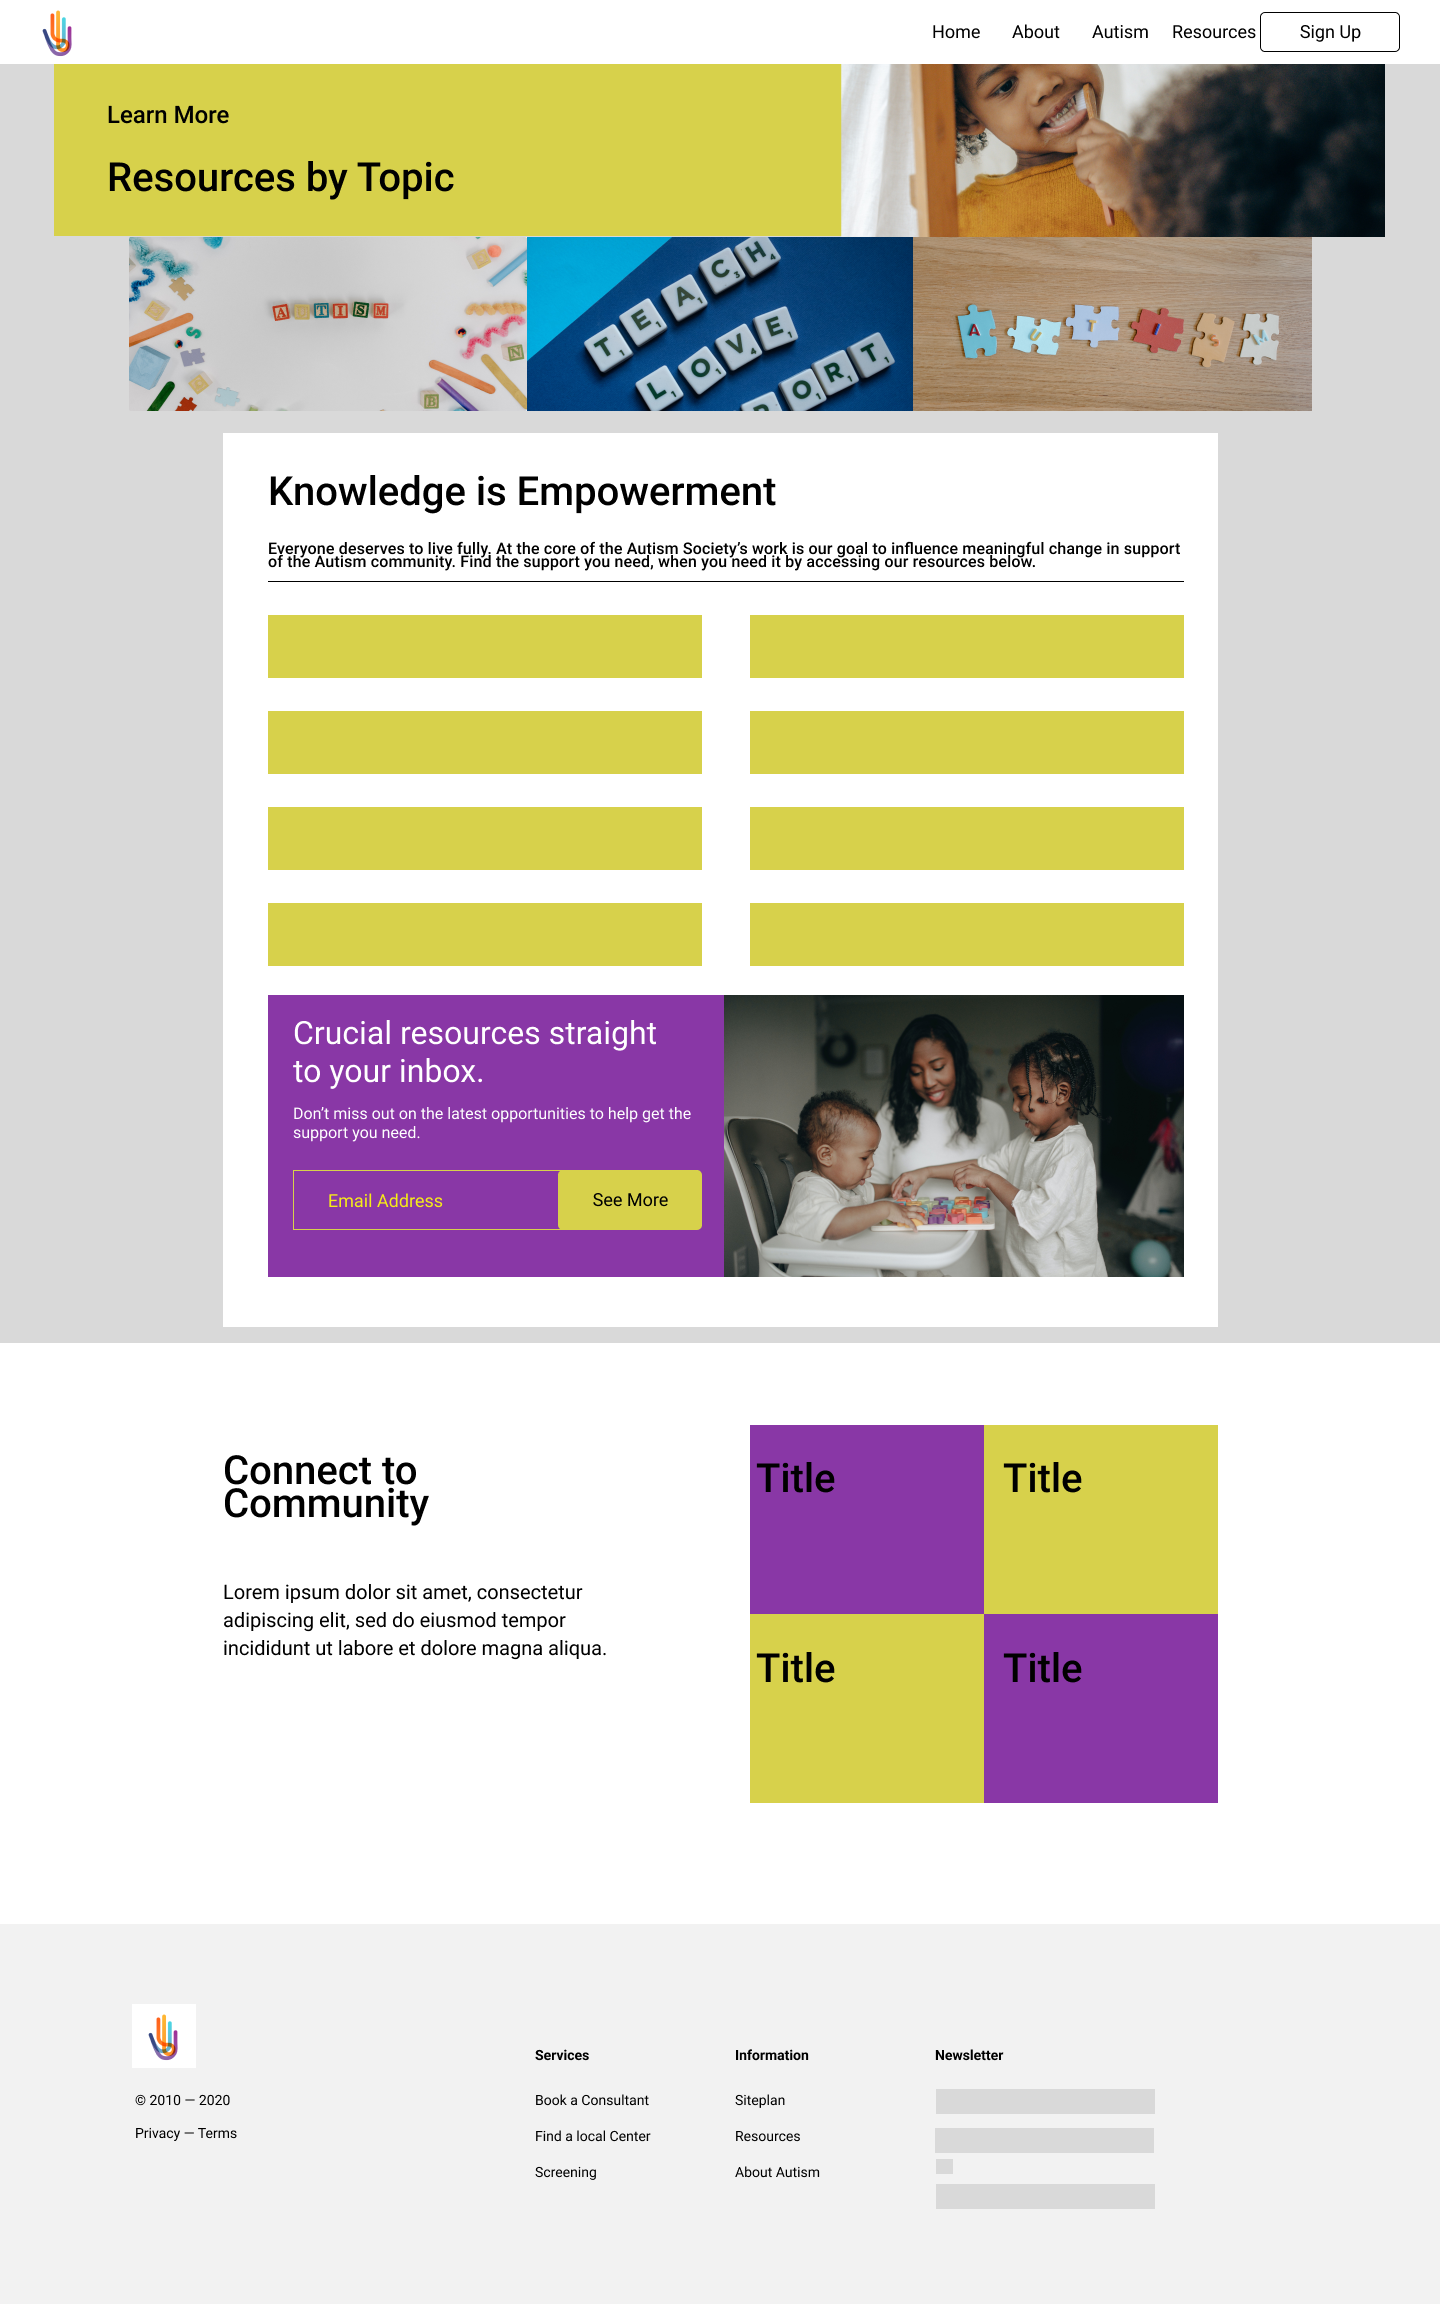
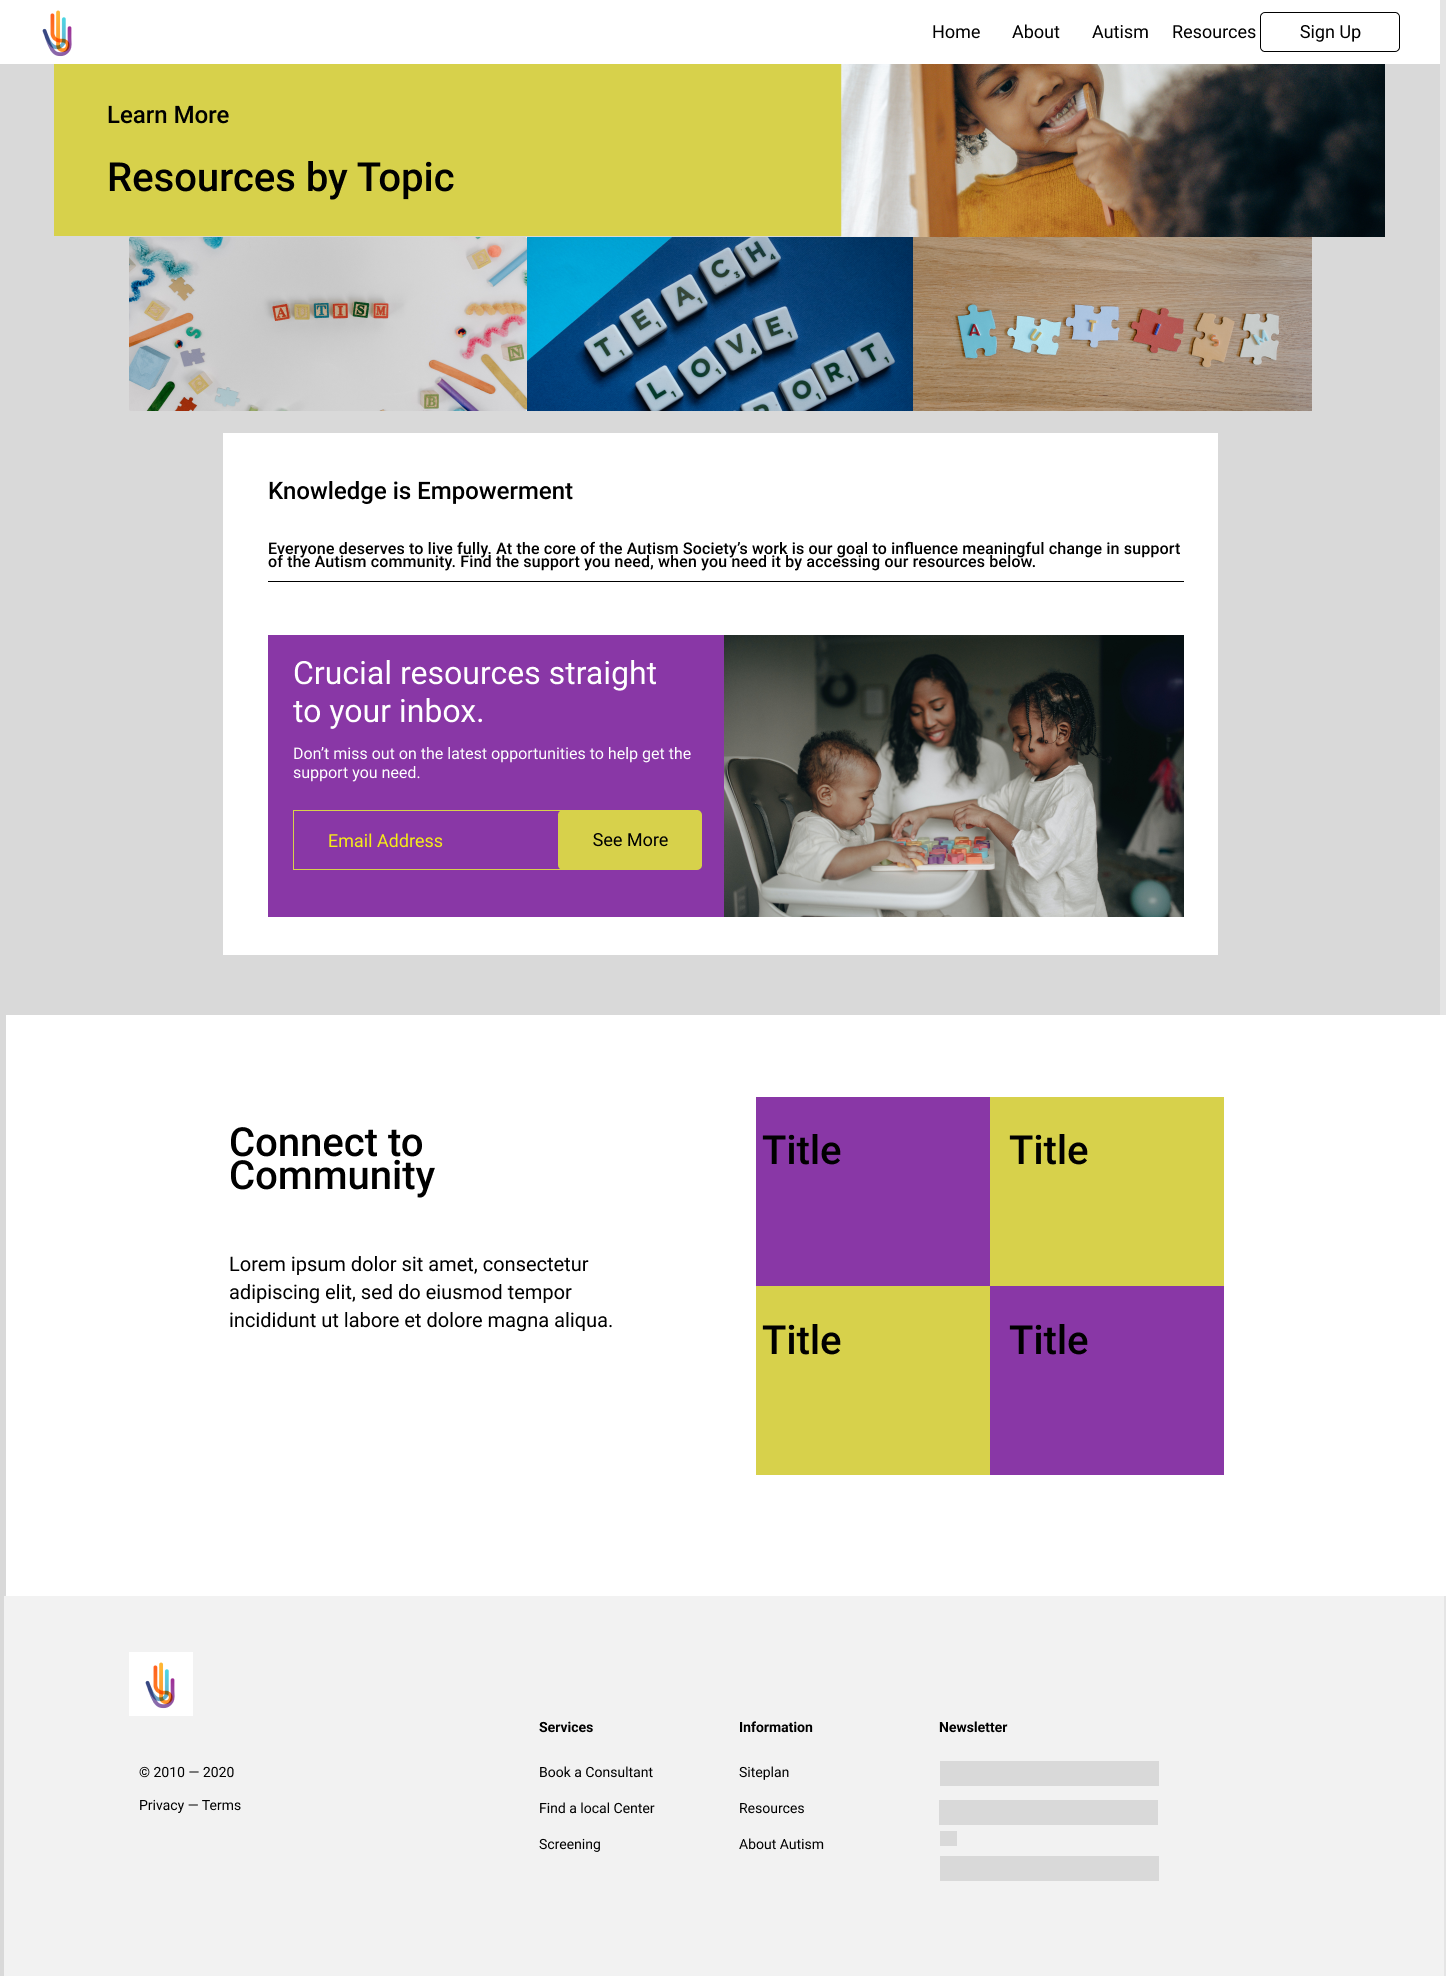
css and resource pages

diff --git a/personalsite/resources.html b/personalsite/resources.html
@@ -31,23 +31,23 @@
                     <h1>Resources by Topics</h1>
                 </div>
             </section>
-            <section class="resourceImages">
+            <div class="resourceImages">
                 <div><img src="./images/pexels-polina-kovaleva-8709218.jpg" alt=""></div>
                 <div><img src="./images/pexels-tara-winstead-8385963.jpg" alt=""></div>
                 <div><img src="./images/pexels-tara-winstead-8386136.jpg" alt=""></div>
-            </section>
+            </div>
             <main class="resourcePage">
-                <h2></h2>
-                <p></p>
+                <h3>Knowledge is Empowerment</h3>
+                <p>Everyone deserves to live fully. At the core of the Autism Society’s work is our goal to 
+                    influence meaningful change in support of the Autism community. Find the support you need, 
+                    when you need it by accessing our resources below.</p>
                 <div class="resourcetoInbox">
                     <div class="retoInboxText">
-                        <h3>Knowledge is Empowerment</h3>
-                        <p>Everyone deserves to live fully. At the core of the Autism Society’s work is our goal to 
-                            influence meaningful change in support of the Autism community. Find the support you need, 
-                            when you need it by accessing our resources below.</p>
-                        <form action="" method="" id="retoInbox">
+                        <h3>Crucial resources straight to your inbox.</h3>
+                        <p>Don’t miss out on the latest opportunities to help get the support you need.</p>
+                        <form id="retoInbox">
                             <div>
-                                <input type="text" name="Email" id="email" pattern="[a-z0-9._%+-]+@[a-z0-9.-]+\.[a-z]{2,}$" 
+                                <input type="text" name="Email" id="EmailSignup" pattern="[a-z0-9._%+-]+@[a-z0-9.-]+\.[a-z]{2,}$" 
                                 placeholder="Email Address" required>
                             </div>
                             <div>
@@ -56,7 +56,7 @@
                         </form>
                     </div>
                     <div>
-                        <img src="./images/pexels-pnw-production-7328448.jpg" alt="">
+                        <img src="./images/pexels-pnw-production-7328448.jpg" alt="lady with children">
                     </div>
                 </div>
             </main>
@@ -118,18 +118,18 @@
                 </div>
                 <div>
                     <h5>Subscribe to our Newsletter</h5>
-                    <form action="" method="">
+                    <form>
                         <div>
                             <label for="Name">Name</label>
-                            <input type="text" name="Name" id="name" required>
+                            <input type="text" name="Name" id="Name" required>
                         </div>
                         <div>
                             <label for="Email">Email</label>
-                            <input type="text" name="Email" id="email" pattern="[a-z0-9._%+-]+@[a-z0-9.-]+\.[a-z]{2,}$" required>
+                            <input type="text" name="Email" id="Email" pattern="[a-z0-9._%+-]+@[a-z0-9.-]+\.[a-z]{2,}$" required>
                         </div>
                         <div>
                             <label for="Accept">
-                            <input type="checkbox" name="Accept" id="acceptCheckbox" checked="checked" value="1">
+                            <input type="checkbox" name="Accept" id="Accept" checked="checked" value="1">
                             I want to receive communications</label>
                         </div>
                         <div>

diff --git a/personalsite/home.html b/personalsite/home.html
@@ -47,7 +47,7 @@
         <div class="mySlides fade">
             <a href="aboutautism.html">
                 <div class="numbertext">1 / 2</div>
-                <img src="images/pexels-polina-kovaleva-8709147.jpg" style="width:100%">
+                <img src="images/pexels-polina-kovaleva-8709147.jpg" style="width:100%" alt="slide1">
                 <div class="text">About Autism</div>
             </a>
         </div>
@@ -55,7 +55,7 @@
         <div class="mySlides fade">
             <a href="resources.html">
                 <div class="numbertext">2 / 2</div>
-                <img src="images/pexels-polina-kovaleva-8709512.jpg" style="width:100%">
+                <img src="images/pexels-polina-kovaleva-8709512.jpg" style="width:100%" alt="slide2">
                 <div class="text">Resources</div>
             </a>
         </div>
@@ -71,7 +71,7 @@
         
     </div>
     <br>
-    
+
     <div class="footerCentral">
         <div>
             <h3>Connect to Community</h3>
@@ -125,18 +125,18 @@
                 </div>
                 <div>
                     <h5>Subscribe to our Newsletter</h5>
-                    <form action="" method="">
+                    <form>
                         <div>
                             <label for="Name">Name</label>
-                            <input type="text" name="Name" id="name" required>
+                            <input type="text" name="Name" id="Name" required>
                         </div>
                         <div>
                             <label for="Email">Email</label>
-                            <input type="text" name="Email" id="email" pattern="[a-z0-9._%+-]+@[a-z0-9.-]+\.[a-z]{2,}$" required>
+                            <input type="text" name="Email" id="Email" pattern="[a-z0-9._%+-]+@[a-z0-9.-]+\.[a-z]{2,}$" required>
                         </div>
                         <div>
                             <label for="Accept">
-                            <input type="checkbox" name="Accept" id="acceptCheckbox" checked="checked" value="1">
+                            <input type="checkbox" name="Accept" id="Accept" checked="checked" value="1">
                             I want to receive communications</label>
                         </div>
                         <div>

diff --git a/personalsite/aboutautism.html b/personalsite/aboutautism.html
@@ -90,18 +90,18 @@
                 </div>
                 <div>
                     <h5>Subscribe to our Newsletter</h5>
-                    <form action="" method="">
+                    <form>
                         <div>
                             <label for="Name">Name</label>
-                            <input type="text" name="Name" id="name" required>
+                            <input type="text" name="Name" id="Name" required>
                         </div>
                         <div>
                             <label for="Email">Email</label>
-                            <input type="text" name="Email" id="email" pattern="[a-z0-9._%+-]+@[a-z0-9.-]+\.[a-z]{2,}$" required>
+                            <input type="text" name="Email" id="Email" pattern="[a-z0-9._%+-]+@[a-z0-9.-]+\.[a-z]{2,}$" required>
                         </div>
                         <div>
                             <label for="Accept">
-                            <input type="checkbox" name="Accept" id="acceptCheckbox" checked="checked" value="1">
+                            <input type="checkbox" name="Accept" id="Accept" checked="checked" value="1">
                             I want to receive communications</label>
                         </div>
                         <div>

diff --git a/personalsite/autismsite.css b/personalsite/autismsite.css
@@ -1,6 +1,19 @@
+@import url('https://fonts.googleapis.com/css2?family=Open+Sans:wght@300&display=swap');
+@import url('https://fonts.googleapis.com/css2?family=Roboto:wght@100&display=swap');
+
+:root {
+  /* change the values below to your chosen font(s) */
+  --heading-font: 'Roboto', sans-serif;
+  --paragraph-font: 'Open Sans', sans-serif;
+}
+
     body{
         margin: 0 auto;
-        font-family: sans-serif;
+        font-family: var(--paragraph-font);
+    }
+
+    h1, h2, h3, h4, h5, h6{
+        font-family: var(--heading-font);
     }
 
     .resourcePageBody{
@@ -284,7 +297,7 @@
         width: 100%;
         border: solid #d4cf4a;
         background: none;
-        padding: 10px 0;
+        padding: 10px 6px;
     }
 
     #retoInbox input[type="submit"]{
@@ -296,6 +309,18 @@
         font-size: 10px;
         width: 100%;
         height: 41px;
+    }
+
+    #retoInbox ::placeholder{
+        color:#d4cf4a;
+    }
+
+    #retoInbox :-ms-input-placeholder{
+        color:#d4cf4a;
+    }
+
+    #retoInbox ::-ms-input-placeholder{
+        color:#d4cf4a;
     }
 
     .retoInboxText{
